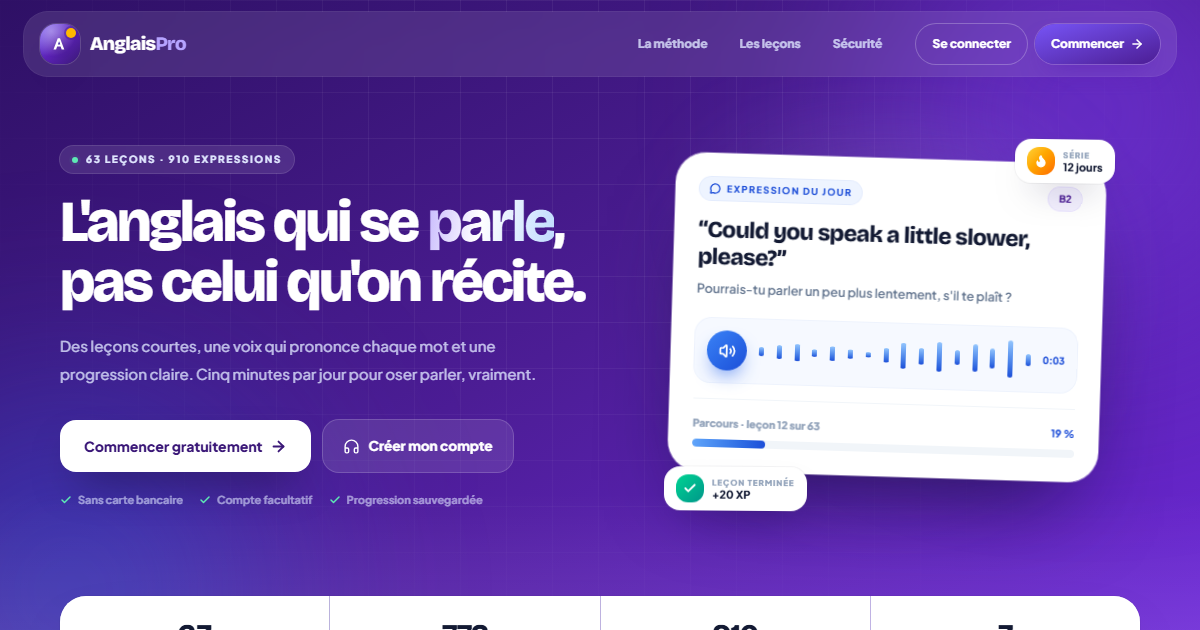
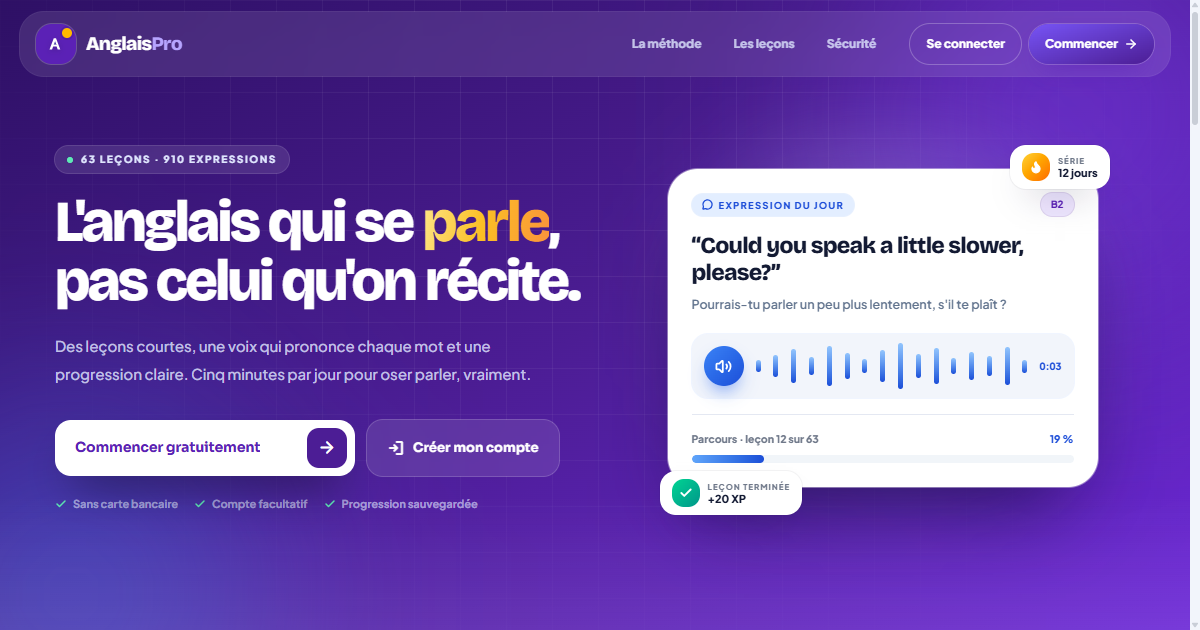
Landing toujours en premier, CTA d'inscription et SEO complet

diff --git a/src/features/landing/LandingPage.tsx b/src/features/landing/LandingPage.tsx
@@ -9,7 +9,6 @@ import {
   ChevronRight,
   Flame,
   Gem,
-  Headphones,
   Layers,
   Menu,
   MessageCircle,
@@ -190,7 +189,7 @@ function LessonPreview() {
   );
 }
 
-function LandingNav() {
+function LandingNav({ returning }: { returning: boolean }) {
   const [open, setOpen] = useState(false);
   const [scrolled, setScrolled] = useState(false);
 
@@ -248,7 +247,7 @@ function LandingNav() {
             to="/accueil"
             className="btn-shine inline-flex h-10 items-center gap-1.5 rounded-full bg-gradient-to-br from-brand-500 to-brand-700 px-4 text-[12px] font-extrabold text-white shadow-[0_12px_26px_-12px_rgba(91,33,182,0.95)] ring-1 ring-white/20 transition hover:-translate-y-0.5 hover:to-brand-800 max-[379px]:hidden"
           >
-            Commencer
+            {returning ? "Reprendre" : "Commencer"}
             <ArrowRight size={14} strokeWidth={2.6} />
           </EnterLink>
           <button
@@ -296,7 +295,7 @@ function LandingNav() {
             onNavigate={() => setOpen(false)}
             className="mt-1 flex items-center justify-center gap-1.5 rounded-xl bg-gradient-to-br from-brand-500 to-brand-700 px-3.5 py-3 text-[13px] font-extrabold text-white ring-1 ring-brand-700/20"
           >
-            Commencer gratuitement
+            {returning ? "Reprendre ma progression" : "Commencer gratuitement"}
             <ArrowRight size={15} strokeWidth={2.6} />
           </EnterLink>
         </div>
@@ -305,10 +304,10 @@ function LandingNav() {
   );
 }
 
-export function LandingPage() {
+export function LandingPage({ returning = false }: { returning?: boolean }) {
   return (
     <div className="min-h-dvh bg-white">
-      <LandingNav />
+      <LandingNav returning={returning} />
 
       <main>
         <section className="relative overflow-hidden bg-gradient-to-br from-[#2e1065] via-[#4c1d95] to-[#6d28d9] pb-28 pt-28 text-white sm:pb-32 sm:pt-32 lg:pb-36 lg:pt-36">
@@ -358,20 +357,20 @@ export function LandingPage() {
               >
                 <EnterLink
                   to="/accueil"
-                  className="btn-shine group inline-flex h-13 items-center justify-center gap-2 rounded-2xl bg-white px-6 text-[14px] font-extrabold text-brand-strong shadow-[0_20px_44px_-18px_rgba(0,0,0,0.65)] transition hover:-translate-y-0.5 hover:bg-indigo-soft active:translate-y-0"
+                  className="btn-shine group flex h-14 items-center justify-between gap-4 rounded-2xl bg-white pl-5 pr-2 text-[14px] font-extrabold tracking-[-0.01em] text-brand-strong shadow-[0_22px_46px_-18px_rgba(0,0,0,0.7)] transition hover:-translate-y-0.5 hover:bg-amber-50 active:translate-y-0 sm:w-[300px]"
                 >
-                  Commencer gratuitement
-                  <ArrowRight
-                    size={17}
-                    strokeWidth={2.6}
-                    className="transition-transform group-hover:translate-x-1"
-                  />
+                  <span className="font-nav truncate">
+                    {returning ? "Reprendre ma progression" : "Commencer gratuitement"}
+                  </span>
+                  <span className="grid h-10 w-10 shrink-0 place-items-center rounded-xl bg-brand-700 text-white transition-transform group-hover:translate-x-0.5">
+                    <MaterialIcon name="arrow_forward" size={19} />
+                  </span>
                 </EnterLink>
                 <Link
-                  to="/auth"
-                  className="inline-flex h-13 items-center justify-center gap-2 rounded-2xl bg-white/10 px-5 text-[13.5px] font-extrabold text-white ring-1 ring-white/25 backdrop-blur transition hover:bg-white/15"
+                  to="/auth?mode=signup"
+                  className="font-nav inline-flex h-14 items-center justify-center gap-2 rounded-2xl bg-white/10 px-5 text-[13px] font-bold text-white ring-1 ring-white/25 backdrop-blur transition hover:bg-white/20"
                 >
-                  <Headphones size={17} />
+                  <MaterialIcon name="login" size={18} />
                   Créer mon compte
                 </Link>
               </div>
@@ -662,25 +661,31 @@ export function LandingPage() {
               </p>
             </div>
 
-            <div className="flex w-full flex-col gap-2.5 sm:w-auto">
-              <EnterLink
-                to="/accueil"
-                className="btn-shine group flex h-14 w-full items-center justify-between gap-3 rounded-2xl bg-white pl-5 pr-2 text-[14px] font-extrabold tracking-[-0.01em] text-brand-strong shadow-[0_24px_50px_-20px_rgba(0,0,0,0.7)] transition hover:-translate-y-0.5 hover:bg-amber-50 active:translate-y-0 sm:w-[300px]"
+            <div className="flex w-full flex-col gap-2.5 sm:w-[320px]">
+              <Link
+                to="/auth?mode=signup"
+                className="btn-shine group flex h-14 w-full items-center justify-between gap-3 rounded-2xl bg-white pl-5 pr-2 text-[14px] font-extrabold tracking-[-0.01em] text-brand-strong shadow-[0_24px_50px_-20px_rgba(0,0,0,0.7)] transition hover:-translate-y-0.5 hover:bg-amber-50 active:translate-y-0"
               >
-                <span className="font-nav truncate">Commencer maintenant</span>
+                <span className="font-nav truncate">Créer mon compte gratuit</span>
                 <span className="grid h-10 w-10 shrink-0 place-items-center rounded-xl bg-brand-700 text-white transition-transform group-hover:translate-x-0.5">
                   <MaterialIcon name="arrow_forward" size={19} />
                 </span>
-              </EnterLink>
-              <Link
-                to="/auth"
-                className="font-nav inline-flex h-12 w-full items-center justify-center gap-2 rounded-2xl bg-white/10 text-[12.5px] font-bold text-white ring-1 ring-white/25 transition hover:bg-white/20 sm:w-[300px]"
-              >
-                <MaterialIcon name="login" size={18} />
-                Se connecter
               </Link>
-              <p className="text-center text-[9.5px] font-semibold text-indigo-100/60 sm:text-right">
-                Progression sauvegardée · mode invité inclus
+              <EnterLink
+                to="/accueil"
+                className="font-nav inline-flex h-12 w-full items-center justify-center gap-2 rounded-2xl bg-white/10 text-[12.5px] font-bold text-white ring-1 ring-white/25 transition hover:bg-white/20"
+              >
+                Continuer sans compte
+                <MaterialIcon name="chevron_right" size={17} />
+              </EnterLink>
+              <p className="mt-1 text-center text-[10.5px] font-semibold text-indigo-100/65">
+                Déjà inscrit ?{" "}
+                <Link
+                  to="/auth"
+                  className="font-bold text-white underline decoration-white/35 underline-offset-4 transition hover:decoration-white"
+                >
+                  Se connecter
+                </Link>
               </p>
             </div>
           </div>

diff --git a/index.html b/index.html
@@ -20,8 +20,15 @@
     />
     <meta property="og:url" content="https://anglais-pro.vercel.app/" />
     <meta property="og:image" content="https://anglais-pro.vercel.app/og.png" />
+    <meta property="og:image:secure_url" content="https://anglais-pro.vercel.app/og.png" />
+    <meta property="og:image:type" content="image/png" />
     <meta property="og:image:width" content="1200" />
     <meta property="og:image:height" content="630" />
+    <meta
+      property="og:image:alt"
+      content="Anglais Pro — l'anglais qui se parle : leçons courtes, exercices et prononciation claire."
+    />
+    <meta name="robots" content="index, follow, max-image-preview:large, max-snippet:-1" />
     <meta name="twitter:card" content="summary_large_image" />
     <meta name="twitter:title" content="Anglais Pro — L'anglais qui se parle" />
     <meta
@@ -47,9 +54,75 @@
       href="https://fonts.googleapis.com/css2?family=Material+Symbols+Rounded:opsz,wght,FILL,GRAD@20..48,100..700,0..1,-50..200&icon_names=analytics,animation,arrow_back,arrow_forward,brightness_auto,check,chevron_right,cloud_off,dark_mode,diamond,event_available,expand_more,fitness_center,forum,graphic_eq,grid_view,home,left_panel_close,left_panel_open,light_mode,local_fire_department,login,logout,menu_book,palette,person,play_arrow,public,restart_alt,search,settings,shield,style,track_changes,translate,tune,volume_off,volume_up&display=block"
       rel="stylesheet"
     />
-    <title>Anglais Pro — Apprendre l'anglais autrement</title>
+    <title>Anglais Pro — L'anglais qui se parle</title>
+    <script type="application/ld+json">
+      {
+        "@context": "https://schema.org",
+        "@graph": [
+          {
+            "@type": "WebSite",
+            "@id": "https://anglais-pro.vercel.app/#website",
+            "url": "https://anglais-pro.vercel.app/",
+            "name": "Anglais Pro",
+            "alternateName": "Anglais Pro — L'anglais qui se parle",
+            "description": "Apprendre l'anglais avec 63 leçons courtes, 772 exercices et 910 expressions, du niveau débutant au niveau avancé.",
+            "inLanguage": "fr-FR",
+            "publisher": { "@id": "https://anglais-pro.vercel.app/#organization" }
+          },
+          {
+            "@type": "Organization",
+            "@id": "https://anglais-pro.vercel.app/#organization",
+            "name": "Anglais Pro",
+            "url": "https://anglais-pro.vercel.app/",
+            "logo": "https://anglais-pro.vercel.app/app-icon.svg"
+          },
+          {
+            "@type": "WebApplication",
+            "@id": "https://anglais-pro.vercel.app/#application",
+            "name": "Anglais Pro",
+            "url": "https://anglais-pro.vercel.app/",
+            "applicationCategory": "EducationalApplication",
+            "operatingSystem": "Web",
+            "browserRequirements": "Requires JavaScript",
+            "inLanguage": "fr-FR",
+            "description": "Des leçons de cinq minutes, une voix qui prononce chaque mot et une progression claire pour oser parler anglais.",
+            "isAccessibleForFree": true,
+            "offers": { "@type": "Offer", "price": "0", "priceCurrency": "EUR" },
+            "featureList": [
+              "63 leçons courtes et progressives",
+              "772 exercices corrigés",
+              "910 expressions courantes",
+              "Prononciation audio de chaque mot",
+              "Suivi de la progression et de la série de jours"
+            ]
+          }
+        ]
+      }
+    </script>
   </head>
   <body>
+    <noscript>
+      <div
+        style="
+          max-width: 44rem;
+          margin: 0 auto;
+          padding: 3rem 1.25rem;
+          font-family: system-ui, sans-serif;
+          color: #1c0b45;
+          line-height: 1.6;
+        "
+      >
+        <h1 style="font-size: 1.75rem; margin: 0 0 0.75rem">Anglais Pro — l'anglais qui se parle</h1>
+        <p style="margin: 0 0 0.75rem">
+          Des leçons courtes, une voix qui prononce chaque mot et une progression claire : cinq
+          minutes par jour pour oser parler anglais.
+        </p>
+        <p style="margin: 0">
+          63 leçons, 772 exercices et 910 expressions, du niveau débutant au niveau avancé. Activez
+          JavaScript pour créer votre compte gratuitement et commencer la première leçon.
+        </p>
+      </div>
+    </noscript>
     <div id="root"></div>
     <script type="module" src="/src/main.tsx"></script>
   </body>

diff --git a/src/App.tsx b/src/App.tsx
@@ -3,7 +3,6 @@ import { HashRouter, Link, Navigate, Route, Routes, useLocation } from "react-ro
 import { Compass } from "lucide-react";
 import { AuthProvider, useAuth } from "@/auth/AuthProvider";
 import { AppShell } from "@/components/AppShell";
-import { Logo } from "@/components/Logo";
 import { HomePage } from "@/features/home/HomePage";
 import { LandingPage } from "@/features/landing/LandingPage";
 import { LearnPage } from "@/features/learn/LearnPage";
@@ -48,27 +47,12 @@ function ThemeSync({ resolved, reducedMotion }: { resolved: string; reducedMotio
   return null;
 }
 
-function EntrySplash() {
-  return (
-    <div className="grid min-h-dvh place-items-center bg-[#4c1d95]">
-      <div className="animate-pop">
-        <Logo onDark />
-      </div>
-    </div>
-  );
-}
-
-/**
- * Point d'entrée du site : la page de présentation s'affiche lors de la
- * première visite, puis l'application prend le relais.
- */
 function Entry() {
   const { user, loading } = useAuth();
   const [entered] = useState(hasEnteredApp);
 
-  if (!entered && loading) return <EntrySplash />;
-  if (entered || user) return <Navigate to="/accueil" replace />;
-  return <LandingPage />;
+  if (!loading && user) return <Navigate to="/accueil" replace />;
+  return <LandingPage returning={entered} />;
 }
 
 function NotFound() {

diff --git a/src/index.css b/src/index.css
@@ -478,6 +478,16 @@
   .lift:active {
     transform: translateY(-1px) scale(0.997);
   }
+
+  /* Accent typographique de la page de présentation (fond sombre). */
+  .text-gradient {
+    background-image: linear-gradient(100deg, #fde68a 0%, #fbbf24 48%, #fb923c 100%);
+    -webkit-background-clip: text;
+    background-clip: text;
+    -webkit-text-fill-color: transparent;
+    color: transparent;
+    padding-bottom: 0.04em;
+  }
 }
 
 @keyframes fade-up {

diff --git a/README.md b/README.md
@@ -31,7 +31,8 @@ Une application web **mobile-first** pensée pour les francophones qui veulent p
 - **910 expressions utiles** — avec traduction, note d'usage et écoute audio.
 - **Révision ciblée** — sessions par compétence, marathon de 20 questions et flashcards.
 - **Progression motivante** — XP, cœurs qui se gagnent en terminant des leçons (3 maximum), série quotidienne, objectif journalier, rangs et succès. La barre supérieure met en avant les points, la série de jours, le pourcentage d'avancement et le profil, sans icône cœur.
-- **Page de présentation** — un landing page moderne (dégradés violet/bleu, aperçu de leçon animé, apparitions au défilement) accueille les nouveaux visiteurs avant l'application.
+- **Page de présentation** — un landing page moderne (dégradés violet/bleu, aperçu de leçon animé, apparitions au défilement) s'affiche à chaque ouverture du site, y compris sur un nouvel appareil, après un retour ou une arrivée depuis un moteur de recherche ; l'inscription et le mode invité sont proposés juste après.
+- **Référencement soigné** — métadonnées Open Graph/Twitter, image de partage 1200×630, données structurées JSON-LD, `robots.txt`, `sitemap.xml` et lien canonique vers la page de présentation.
 - **Audio intégré** — prononciation via la synthèse vocale du navigateur : la voix la plus naturelle disponible (Natural/Neural/Google/Samantha) est choisie automatiquement, le texte est découpé aux fins de phrase pour respecter la ponctuation, et un égaliseur animé accompagne l'écoute.
 - **Animations réelles** — apparitions en cascade, survols qui soulèvent les cartes, mascottes qui flottent, barres qui poussent, égaliseur de lecture et révélations au défilement sur la page de présentation ; tout se réduit depuis les Réglages ou le réglage système.
 - **Réglages centralisés** — une page `/reglages` regroupe l'apparence (clair, sombre ou système), la réduction des animations, la prononciation vocale, l'objectif quotidien, la série, le compte et la réinitialisation.
@@ -171,7 +172,7 @@ anglais-pro/
 
 | Route | Page |
 | --- | --- |
-| `/` | Page de présentation (première visite) puis redirection vers l'accueil |
+| `/` | Page de présentation, affichée à chaque ouverture ; un compte connecté rejoint directement `/accueil` |
 | `/accueil` | Accueil / tableau de bord |
 | `/learn` | Parcours par niveau |
 | `/grammar` | Bibliothèque de grammaire |
